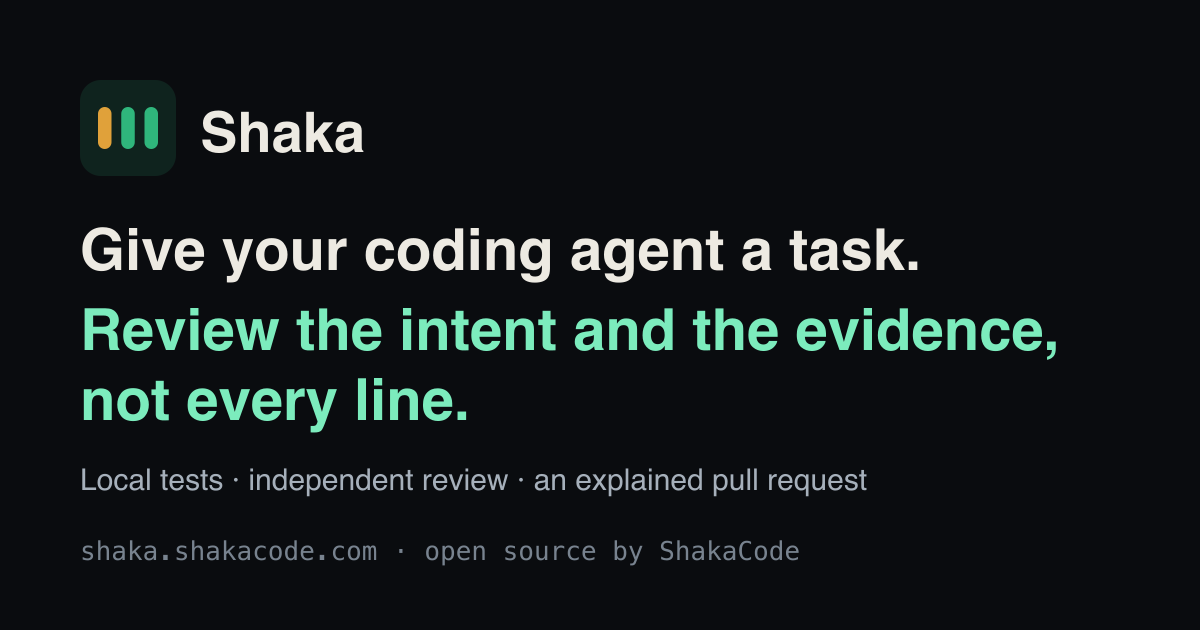
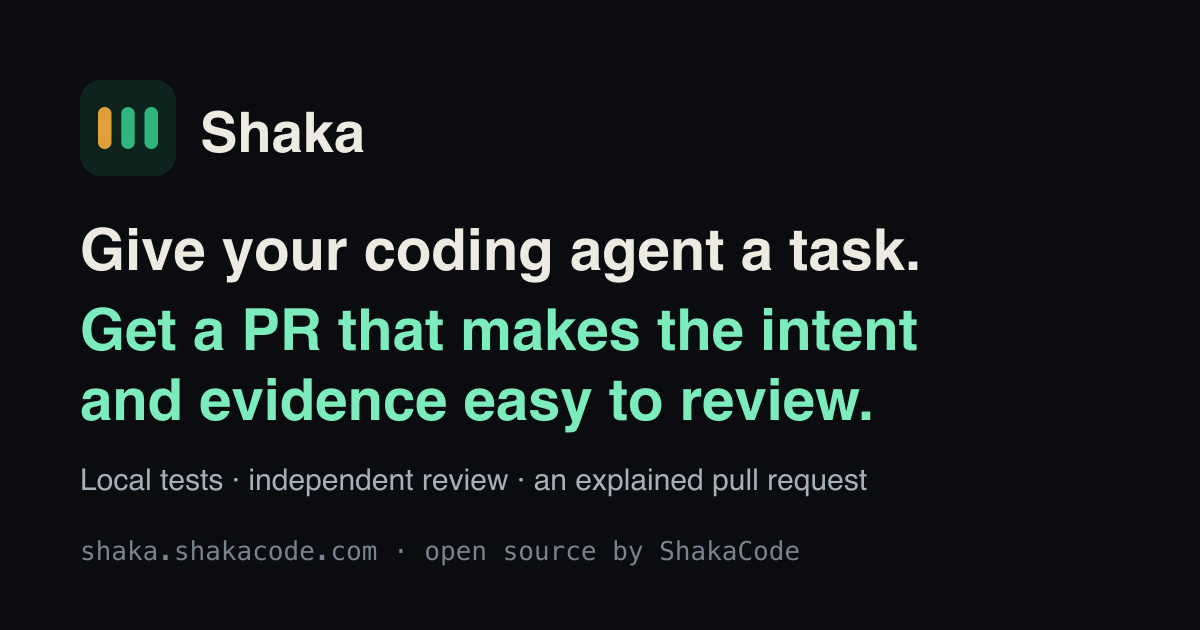
Make the PR outcome explicit in the homepage headline (#25)
Use the approved headline: Get a PR that makes the intent and evidence
easy to review. Match the metadata and preview artwork, with a new image
URL and compatibility copies at the existing URLs.

Changed region(s): [[0.0617, 0.4825, 0.8942, 0.573], [0.0617, 0.6032, 0.74, 0.6937]]

diff --git a/prototypes/docusaurus/docusaurus.config.ts b/prototypes/docusaurus/docusaurus.config.ts
@@ -6,7 +6,7 @@ import {resolveDocsEditUrl} from '../../scripts/docs-edit-url.mjs';
 
 const siteUrl = 'https://shaka.shakacode.com';
 const siteDescription =
-  'Give your coding agent a task. Get a tested, reviewed pull request that is easy to understand.';
+  'Give your coding agent a task. Get a PR that makes the intent and evidence easy to review.';
 
 // Prefer hosted DocSearch when CI provides the complete public search
 // configuration. Local builds and fork previews keep the bundled local index.
@@ -73,7 +73,7 @@ const structuredData = {
 
 const config: Config = {
   title: 'Shaka',
-  tagline: 'PRs that are a delight to review.',
+  tagline: 'Get a PR that makes the intent and evidence easy to review.',
   favicon: 'img/brand/mark.svg',
 
   future: {
@@ -136,7 +136,7 @@ const config: Config = {
   ],
 
   themeConfig: {
-    image: 'img/brand/og-card-intent-evidence.png',
+    image: 'img/brand/og-card-pr-intent-evidence.png',
     metadata: [
       {name: 'description', content: siteDescription},
       {property: 'og:type', content: 'website'},
@@ -145,7 +145,7 @@ const config: Config = {
       {property: 'og:image:height', content: '630'},
       {
         property: 'og:image:alt',
-        content: 'Shaka: give your coding agent a task. Review the intent and the evidence, not every line.',
+        content: 'Shaka: give your coding agent a task. Get a PR that makes the intent and evidence easy to review.',
       },
     ],
     colorMode: {

diff --git a/prototypes/docusaurus/src/pages/index.tsx b/prototypes/docusaurus/src/pages/index.tsx
@@ -60,7 +60,7 @@ const steps = [
 export default function Home(): ReactNode {
   return (
     <Layout
-      title="Give your coding agent a task. Review the intent and the evidence, not every line."
+      title="Give your coding agent a task. Get a PR that makes the intent and evidence easy to review."
       description="Shaka guides coding agents through your repository’s checks, independent review, and a clear GitHub handoff. Open source, for developers and growing projects.">
       <header className={styles.hero}>
         <div className={clsx('container', styles.heroGrid)}>
@@ -68,7 +68,7 @@ export default function Home(): ReactNode {
             <p className={styles.eyebrow}>Open source · Codex, Claude Code, Cursor and more</p>
             <h1 className={styles.heroTitle}>
               Give your coding agent a task.{' '}
-              <span className={styles.accent}>Review the intent and the evidence, not every line.</span>
+              <span className={styles.accent}>Get a PR that makes the intent and evidence easy to review.</span>
             </h1>
             <p className={styles.heroLead}>
               Each Shaka PR says why the change exists, what it leaves out, and why it’s safe. It
